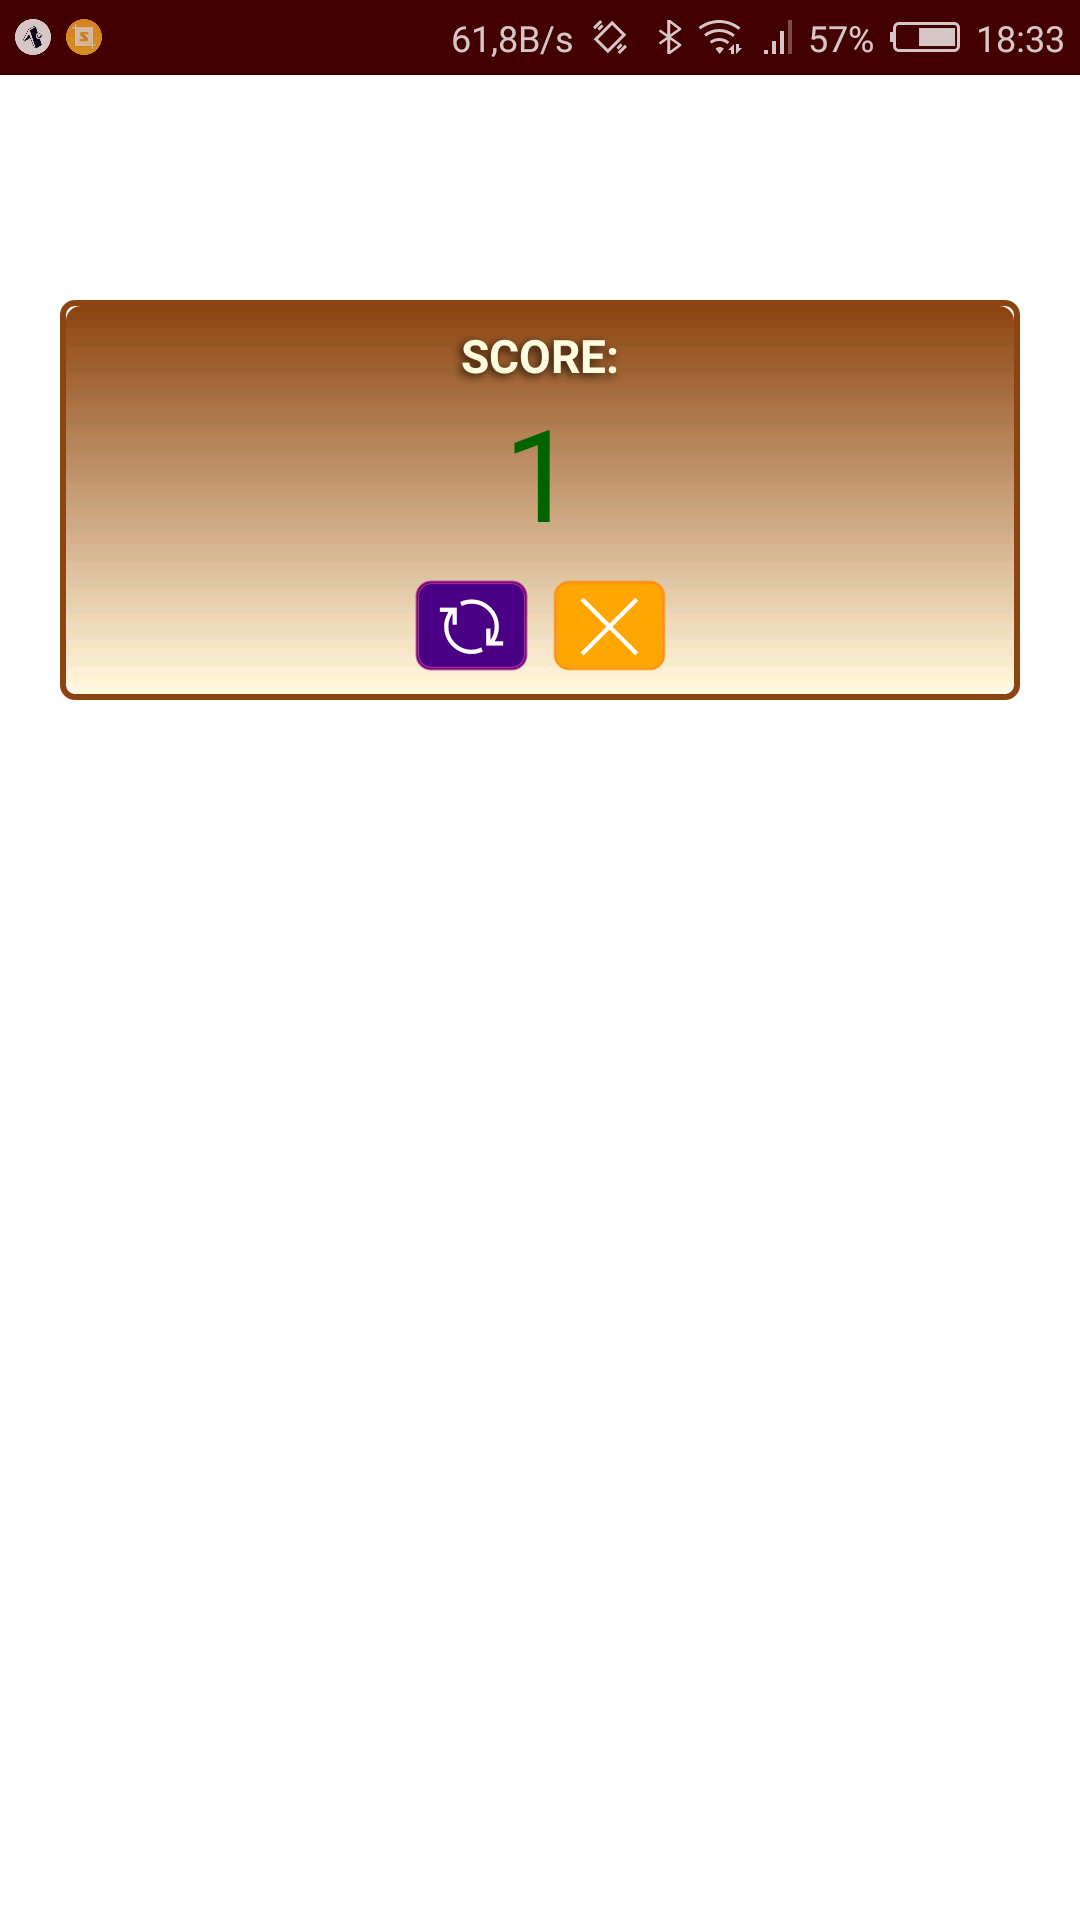
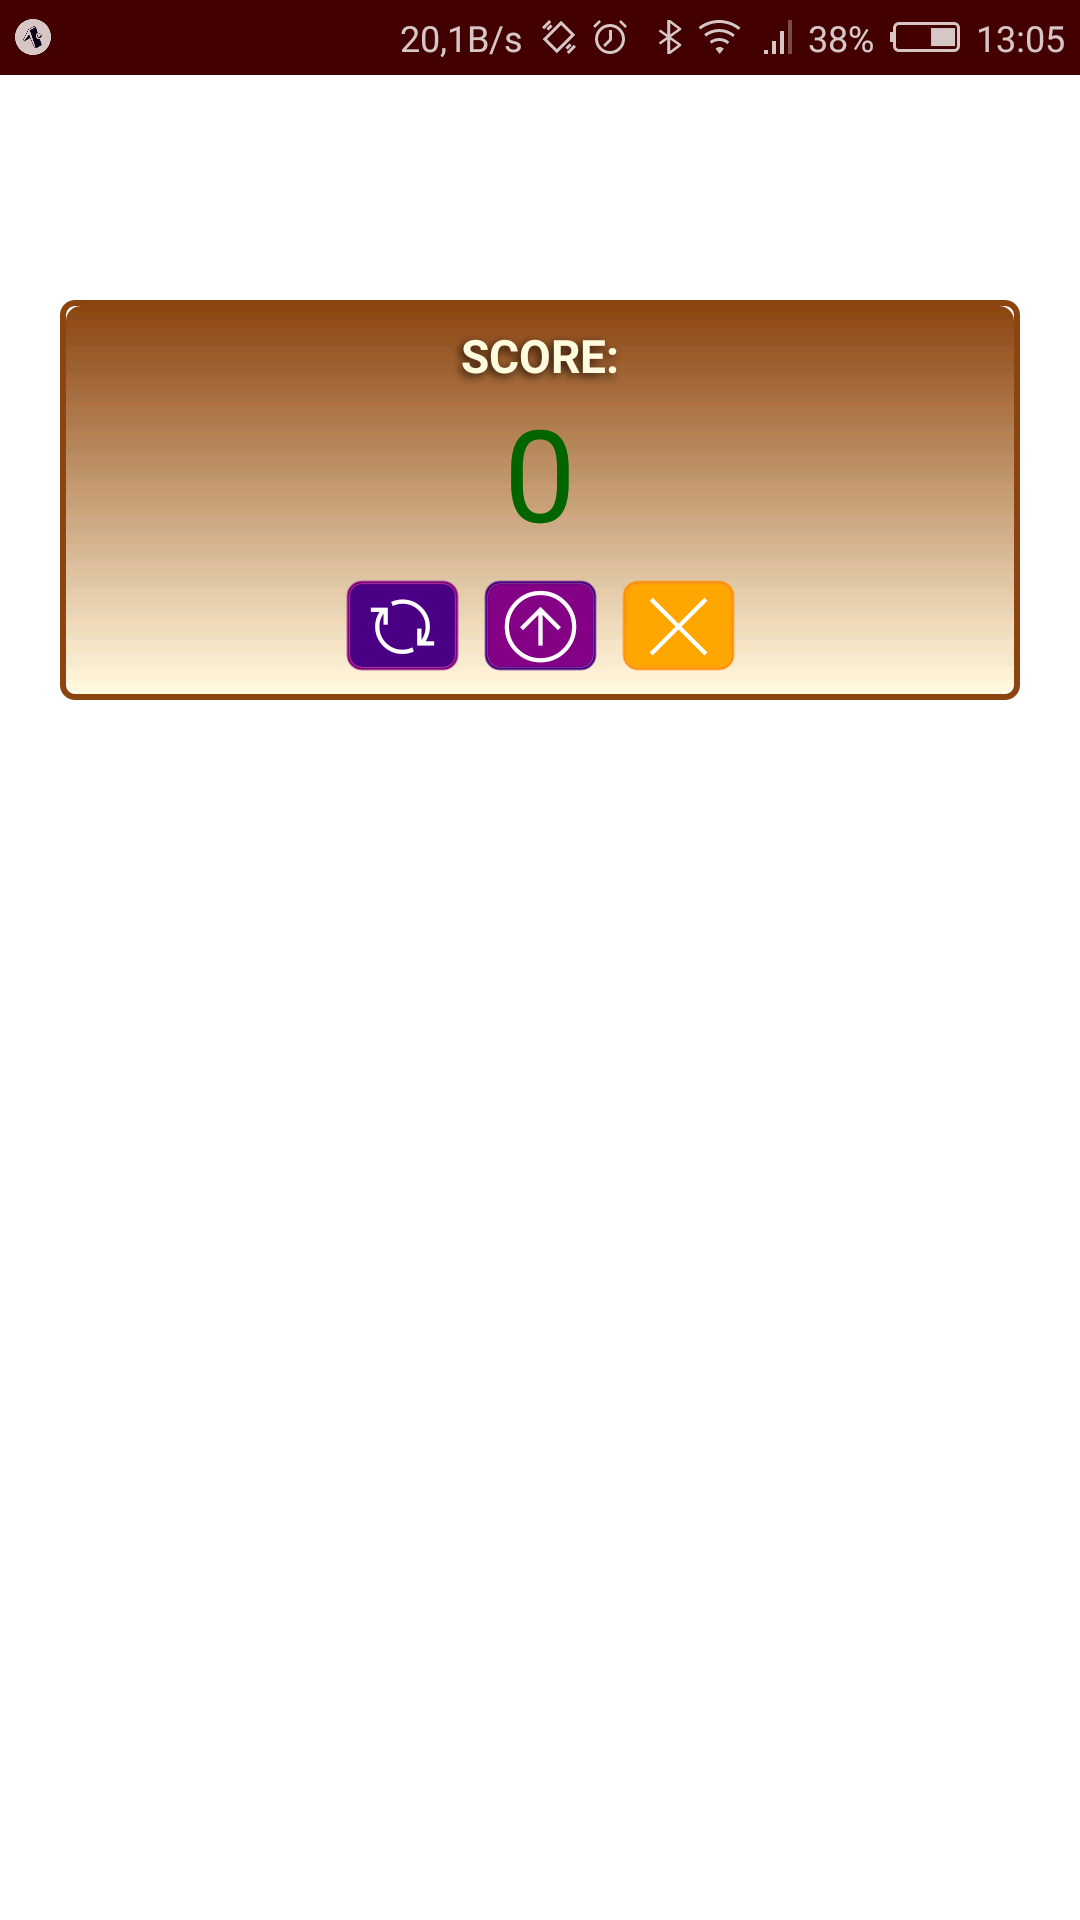
refactor: Ajustes

diff --git a/components/Decks.js b/components/Decks.js
@@ -54,6 +54,8 @@ class Decks extends Component {
     opacity: 0,
     questionPlay: '',
     answerPlay: '',
+    correct: false,
+    incorrect: false,
     points: 0,
   }
 
@@ -174,20 +176,34 @@ class Decks extends Component {
       questionPlay: Object.values(deck)[0].question,
       answerPlay: Object.values(deck)[0].answer,
       points: 0,
+      correct: false,
+      incorrect: false,
     })
     this.hide()
   }
 
   correct = () => {
-    this.setState({
-      points: this.state.points + 1,
-    })
+    if (this.state.correct === false) {
+      this.setState({
+        points: this.state.points + 1,
+        correct: true,
+        incorrect: false,
+      })
+    }
   }
 
   incorrect = () => {
-    this.setState({
-      points: this.state.points - 1,
-    })
+    if (this.state.incorrect == false) {
+      if (this.state.points === 0) {
+
+      } else {
+        this.setState({
+          points: this.state.points - 1,
+          correct: false,
+          incorrect: true,
+        })
+      }
+    }
   }
 
   render() {
@@ -479,6 +495,15 @@ class Decks extends Component {
               <Text>
                 {'   '}
               </Text>
+              <TouchableOpacity style={styles.buttonHome} onPress={() => { this.resetPosition(), this.setModalPointsVisible(!this.state.modalPointsVisible), this.setModalPlayVisible(!this.setModalPlayVisible) }}>
+                <EvilIcons
+                  name='arrow-up'
+                  style={styles.textButton}
+                />
+              </TouchableOpacity>
+              <Text>
+                {'   '}
+              </Text>
               <TouchableOpacity style={styles.buttonCancel} onPress={() => { this.setModalPointsVisible(!this.state.modalPointsVisible) }}>
                 <EvilIcons
                   name='close'
@@ -570,6 +595,12 @@ const styles = StyleSheet.create({
     borderWidth: 1,
     backgroundColor: indigo,
     borderColor: purple,
+  },
+  buttonHome: {
+    borderRadius: 5,
+    borderWidth: 1,
+    backgroundColor: purple,
+    borderColor: indigo,
   },
   buttonCorrect: {
     borderRadius: 5,
